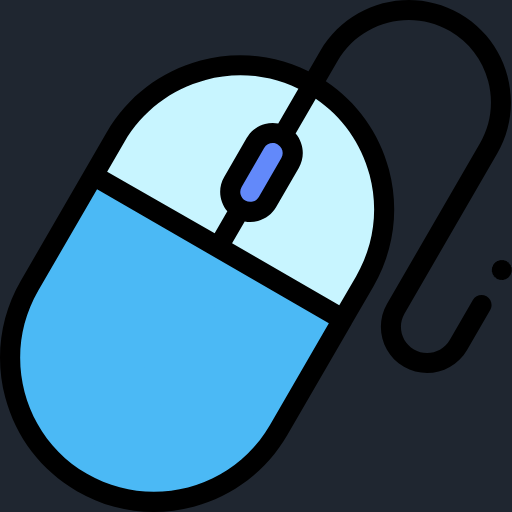
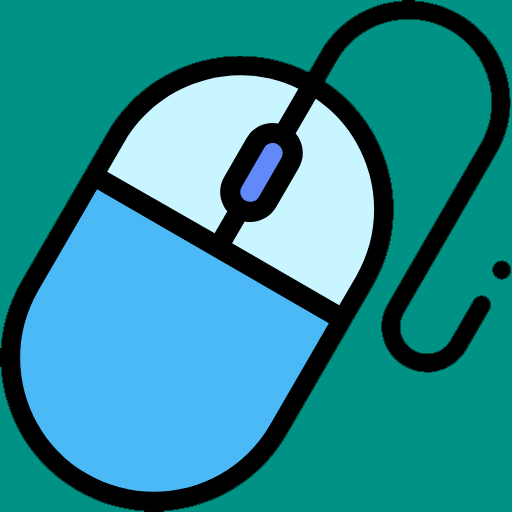
css updates

diff --git a/assets/style.css b/assets/style.css
@@ -1,13 +1,60 @@
 .dark\:bg-stone-900:is(.dark *) {
-    background-color: #151a20;
+    background-color: #1e2129;
 }
 
 .dark\:bg-stone-900\/80:is(.dark *) {
-    background-color: #1f2630;
+    /*background-color: #1f2630;*/
+    background-color: #009385;
 }
 
 .dark .hljs {
-    background: #1e262f !important;
+    background: #272b35 !important;
+}
+
+.dark\:border-l-blue-400:is(.dark *) {
+    border-left-color: #005f56;
+}
+
+.dark\:bg-gray-700:is(.dark *) {
+    background-color: #005f56;
+}
+
+.dark\:border-gray-600:is(.dark *) {
+    border-color: #005f56;
+}
+
+@media (min-width: 640px) {
+    .dark .sm\:text-xl {
+        font-size: 1.4rem;
+        line-height: 1.75rem;
+        font-weight: 500;
+        color: #edf9ffc9;
+        margin-bottom: 0.25rem;
+        margin-left: 0.5rem;
+    }
+}
+
+.dark\:text-white:is(.dark *) {
+    font-weight: 500;
+    color: #edf9ffc9;
+}
+
+@media (min-width: 640px) {
+        .sm\:text-xl {
+        font-size: 1.4rem;
+        line-height: 1.75rem;
+        font-weight: 500;
+        margin-bottom: 0.25rem;
+        margin-left: 0.5rem;
+    }
+}
+
+.dark\:text-gray-200:is(.dark *) {
+    opacity: 0;
+}
+
+html {
+  --darkmode: 1 !important; 
 }
 
 @media (min-width: 1280px) {
